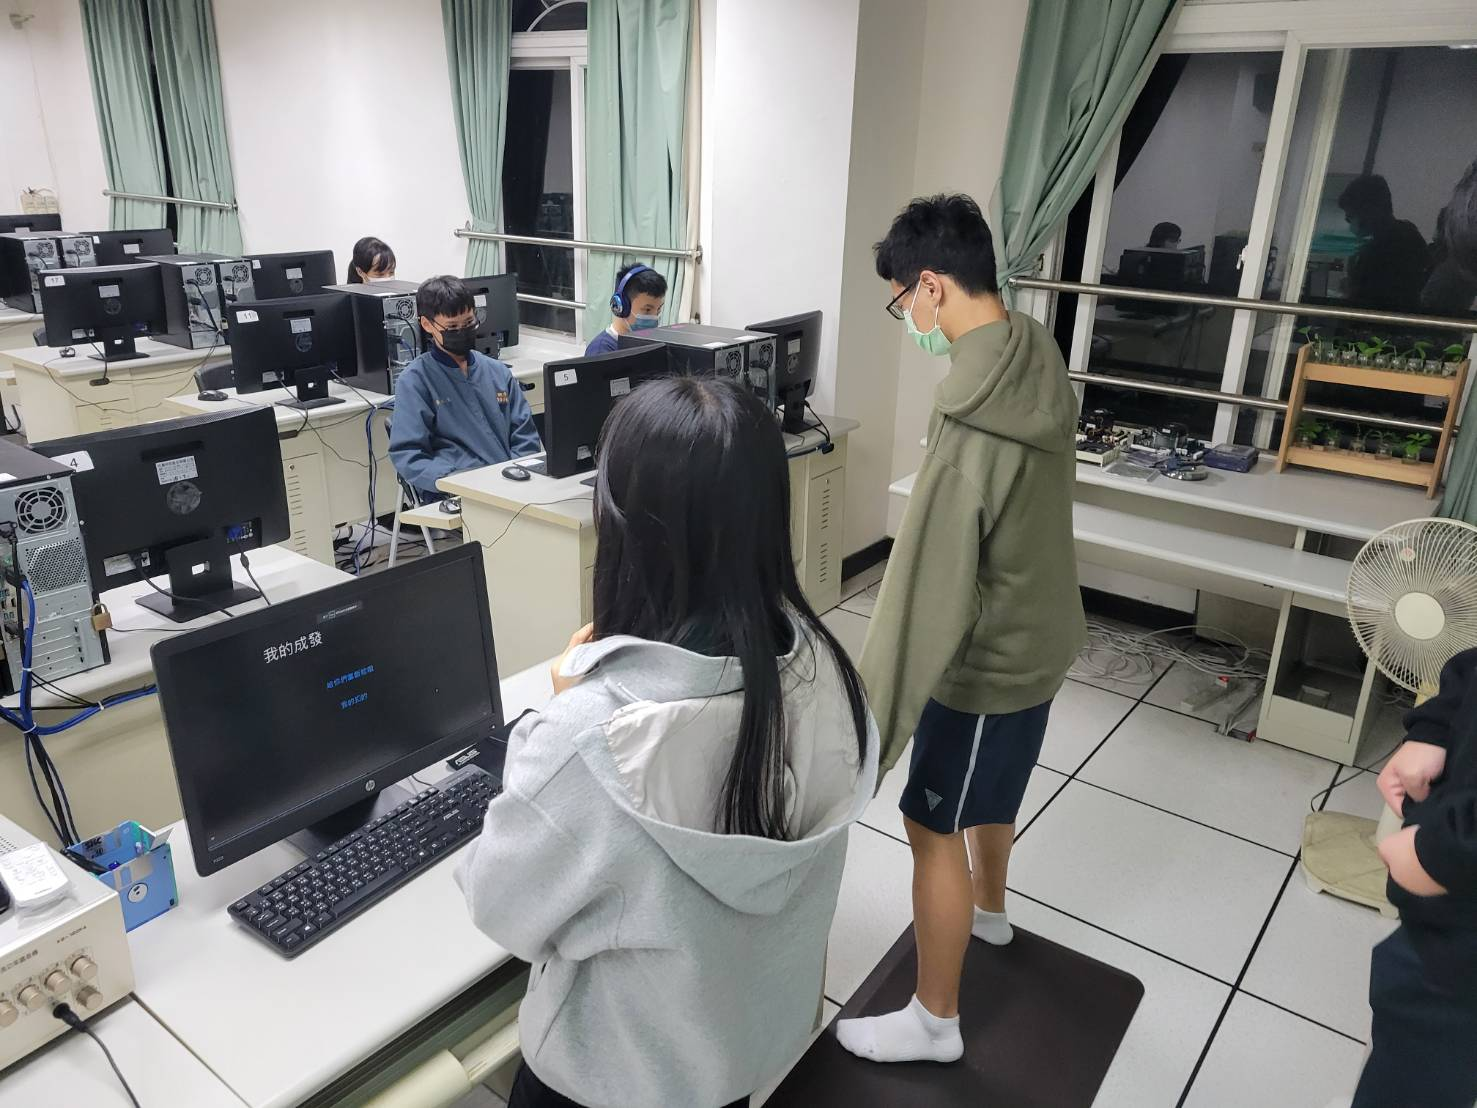
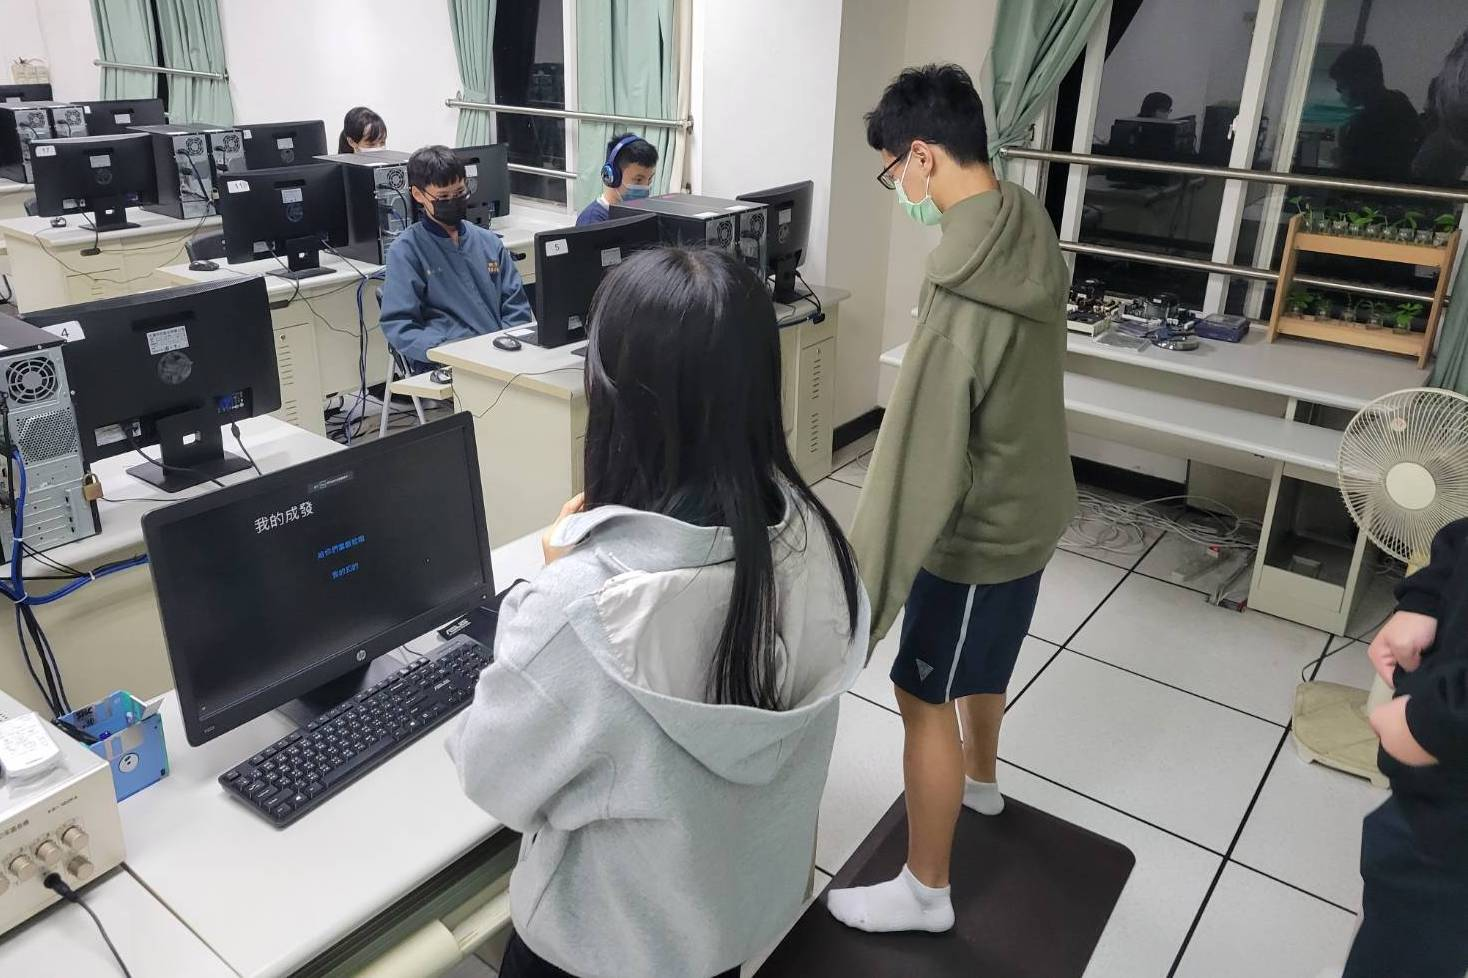
add fgisc noon photo at main page

diff --git a/styles/index.css b/styles/index.css
@@ -79,7 +79,10 @@
 }
 
 #noon-lesson {
-  background-image: url("/images/placeholder.png");
+  background-image: url("/images/fgisc_noon.jpg");
+  background-size: cover;
+  background-position: center;
+  filter: grayscale(50%);
 }
 
 #after-lesson {
